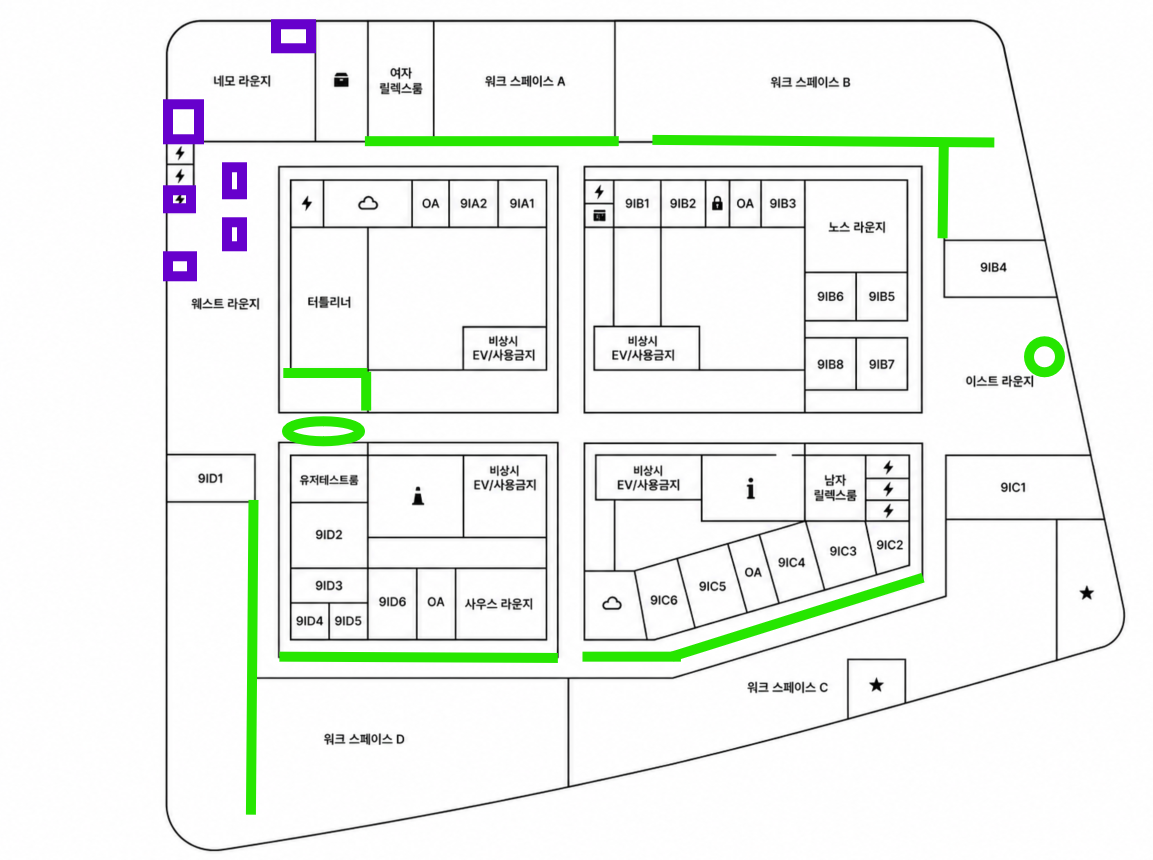
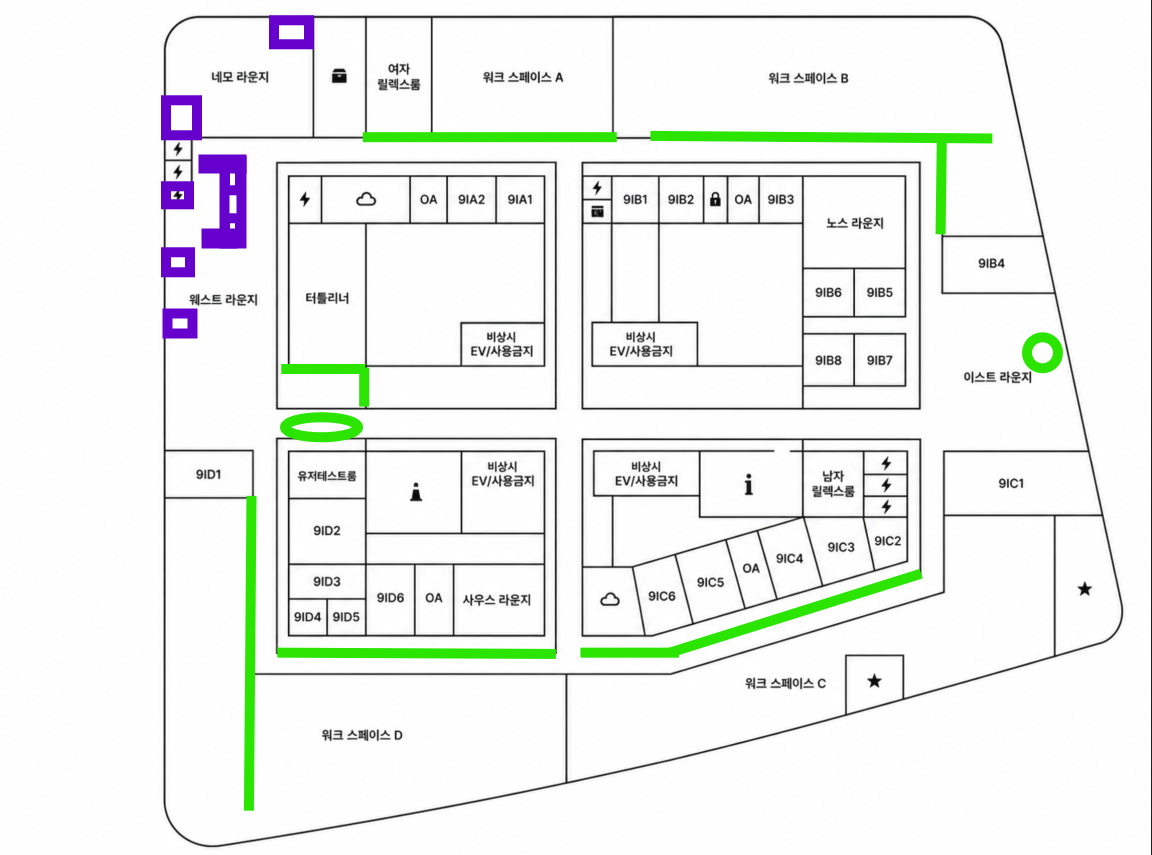
발행 보고서: 삭제 12개(9층 7곳)·9F 도면 교체·공수 복원

diff --git a/js/data.js b/js/data.js
@@ -206,17 +206,17 @@ window.WR_DOCS = [
         '<span class="wrdoc-eyebrow">Snack &amp; Garden · 조경 관리 검토</span>',
         '<h1 class="wrdoc-title">모빌리티 조경 관리구역 변경 검토</h1>',
         '<p class="wrdoc-lede">리모델링에 따른 플랜트박스 삭제가 실제 <b>현장 관리공수</b>에 미치는 영향을 정량 환산하고, 이를 근거로 9월 관리비 조정 기준을 판단하기 위한 검토 보고입니다.</p>',
-        '<div class="wrdoc-meta"><span><b>대상</b> 7·8·9·13층</span><span><b>확정 삭제</b> 대형조성 11개</span><span><b>작성일</b> 2026-08-25</span></div>',
+        '<div class="wrdoc-meta"><span><b>대상</b> 7·8·9·13층</span><span><b>확정 삭제</b> 대형조성 12개</span><span><b>작성일</b> 2026-08-25</span></div>',
       '</div>',
 
       '<section class="wrdoc-sec"><h2><span class="wrdoc-no">01</span>기존 관리 현황</h2>',
         '<div class="wrdoc-tw"><table class="wrdoc-table"><thead><tr><th>구분</th><th>기본 플랜트박스</th><th>대형조성</th><th>소형·중형 화분</th></tr></thead>',
         '<tbody><tr><td>7층</td><td>56</td><td>9</td><td>10</td></tr>',
         '<tr><td>8층</td><td>71</td><td>9</td><td>3</td></tr>',
-        '<tr class="has-del"><td>9층</td><td>67</td><td>9<span class="del-mark">−6 삭제</span></td><td>5</td></tr>',
+        '<tr class="has-del"><td>9층</td><td>67</td><td>9<span class="del-mark">−7 삭제</span></td><td>5</td></tr>',
         '<tr class="has-del"><td>13층</td><td>44</td><td>8<span class="del-mark">−5 삭제</span></td><td>1</td></tr>',
         '<tr class="wrdoc-total"><td>합계</td><td>238</td><td>35</td><td>19</td></tr></tbody></table></div>',
-        '<div class="del-callout"><div class="dc-num">−11<small>개 삭제</small></div><div class="dc-body">리모델링으로 <b>대형조성 플랜트박스 총 11개</b>가 삭제됩니다. 9층 <b>6곳</b>, 13층 <b>5곳(플랜트월 포함)</b> — 현재 확정된 삭제량입니다.</div></div>',
+        '<div class="del-callout"><div class="dc-num">−12<small>개 삭제</small></div><div class="dc-body">리모델링으로 <b>대형조성 플랜트박스 총 12개</b>가 삭제됩니다. 9층 <b>7곳</b>, 13층 <b>5곳(플랜트월 포함)</b> — 현재 확정된 삭제량입니다.</div></div>',
       '</section>',
 
       '<section class="wrdoc-sec"><h2><span class="wrdoc-no">02</span>관리공수 환산 기준</h2>',
@@ -236,20 +236,20 @@ window.WR_DOCS = [
 
       '<section class="wrdoc-sec"><h2><span class="wrdoc-no">03</span>삭제 시나리오별 영향</h2>',
         '<div class="wrdoc-scen">',
-          '<div class="wrdoc-scard"><p class="tag">시나리오 ①</p><p class="cond">대형조성 11개만 삭제</p><p class="big">16.4<small>%</small></p><p class="sub">공수 −88 · 층 환산 ≈ 0.66층</p></div>',
-          '<div class="wrdoc-scard hot"><p class="tag">시나리오 ②</p><p class="cond">대형 11개 + 기본 32개 삭제</p><p class="big">22.3<small>%</small></p><p class="sub">공수 −120 · 층 환산 ≈ 0.89층</p></div>',
+          '<div class="wrdoc-scard"><p class="tag">시나리오 ①</p><p class="cond">대형조성 12개만 삭제</p><p class="big">17.9<small>%</small></p><p class="sub">공수 −96 · 층 환산 ≈ 0.72층</p></div>',
+          '<div class="wrdoc-scard hot"><p class="tag">시나리오 ②</p><p class="cond">대형 12개 + 기본 32개 삭제</p><p class="big">23.8<small>%</small></p><p class="sub">공수 −128 · 층 환산 ≈ 0.95층</p></div>',
         '</div>',
         '<div class="wrdoc-tw"><table class="wrdoc-table"><thead><tr><th>삭제 조건</th><th>공수 감소</th><th>전체 감소율</th><th>층 환산</th></tr></thead>',
-        '<tbody><tr><td>① 대형조성 11개만 삭제</td><td class="pos">−88</td><td>16.4%</td><td>≈ 0.66층</td></tr>',
-        '<tr><td>② 대형 11개 + 기본 32개 삭제</td><td class="pos">−120</td><td>22.3%</td><td>≈ 0.89층</td></tr>',
+        '<tbody><tr><td>① 대형조성 12개만 삭제</td><td class="pos">−96</td><td>17.9%</td><td>≈ 0.72층</td></tr>',
+        '<tr><td>② 대형 12개 + 기본 32개 삭제</td><td class="pos">−128</td><td>23.8%</td><td>≈ 0.95층</td></tr>',
         '<tr><td>정확한 1개 층 기준</td><td>≈ 134</td><td>25%</td><td>1층</td></tr></tbody></table></div>',
-        '<div class="wrdoc-callout" style="border-left-color:#1b5e3f;"><span class="lbl" style="color:#1b5e3f;">검토 현황 (2026-08-25 기준)</span><p>현재 모빌리티 측에서는 <b>기본 플랜트박스 약 32개</b>의 <b>삭제 여부(삭제·유지)</b>를 검토 중입니다. <b>32개 삭제가 확정되면 시나리오 ②</b>(약 22.3% · 약 0.89개 층), <b>유지되면 시나리오 ①</b>(약 16.4% · 약 0.66개 층)이 적용됩니다.</p></div>',
+        '<div class="wrdoc-callout" style="border-left-color:#1b5e3f;"><span class="lbl" style="color:#1b5e3f;">검토 현황 (2026-08-25 기준)</span><p>현재 모빌리티 측에서는 <b>기본 플랜트박스 약 32개</b>의 <b>삭제 여부(삭제·유지)</b>를 검토 중입니다. <b>32개 삭제가 확정되면 시나리오 ②</b>(약 23.8% · 약 0.95개 층), <b>유지되면 시나리오 ①</b>(약 17.9% · 약 0.72개 층)이 적용됩니다.</p></div>',
       '</section>',
 
       '<section class="wrdoc-sec"><h2><span class="wrdoc-no">04</span>최종 판단</h2>',
         '<div class="wrdoc-tw"><table class="wrdoc-table"><thead><tr><th>구분</th><th>결과</th><th>해석</th></tr></thead>',
-        '<tbody><tr><td>① 기본 32개 유지</td><td>약 0.66층 감소</td><td>4→3개 층 조정하기엔 감소폭이 다소 큼</td></tr>',
-        '<tr><td>② 기본 32개 폐기</td><td>약 0.89층 / 22.3%</td><td>실질적 1개 층에 근접 → 3개 층 조정의 근거</td></tr></tbody></table></div>',
+        '<tbody><tr><td>① 기본 32개 유지</td><td>약 0.72층 감소</td><td>4→3개 층 조정하기엔 감소폭이 다소 큼</td></tr>',
+        '<tr><td>② 기본 32개 폐기</td><td>약 0.95층 / 23.8%</td><td>실질적 1개 층에 근접 → 3개 층 조정의 근거</td></tr></tbody></table></div>',
         '<div class="wrdoc-callout"><p><b>‘층이 사라지는 것’이 아니라 ‘식재 관리공수가 줄어드는 것’입니다.</b> 9층·13층은 여전히 관리구역으로 남으며, <b>이동·라운딩·잔여 식재 점검·병해충 확인</b> 등 고정 공수는 계속 발생합니다. 따라서 관리비 조정 기준은 ‘1개 층 삭제’가 아닌 <b>‘식재 관리공수 기준 약 1개 층 상당 감소’</b>로 보는 것이 정확합니다.</p></div>',
       '</section>',
 
@@ -276,9 +276,9 @@ window.WR_DOCS = [
       '<section class="wrdoc-sec"><h2><span class="wrdoc-no">07</span>최종 요약</h2>',
         '<div class="wrdoc-summary">',
           '<p class="rlabel">Executive Summary</p>',
-          '<p>모빌리티 리모델링에 따라 현재 <b>9층·13층 대형조성 플랜트박스 총 11개(플랜트월 포함)</b>가 삭제될 예정입니다.</p>',
-          '<p>현장 관리공수 기준(대형 1개 ≈ 기본 8개)으로 환산하면, 확정 삭제분은 기존 관리공수의 <span class="hl">약 16.4%, 약 0.66개 층</span> 수준입니다.</p>',
-          '<p>추가 검토 중인 <b>기본 플랜트박스 약 32개</b>까지 삭제될 경우 총 감소율은 <span class="hl">약 22.3%, 약 0.89개 층</span>에 해당합니다.</p>',
+          '<p>모빌리티 리모델링에 따라 현재 <b>9층·13층 대형조성 플랜트박스 총 12개(플랜트월 포함)</b>가 삭제될 예정입니다.</p>',
+          '<p>현장 관리공수 기준(대형 1개 ≈ 기본 8개)으로 환산하면, 확정 삭제분은 기존 관리공수의 <span class="hl">약 17.9%, 약 0.72개 층</span> 수준입니다.</p>',
+          '<p>추가 검토 중인 <b>기본 플랜트박스 약 32개</b>까지 삭제될 경우 총 감소율은 <span class="hl">약 23.8%, 약 0.95개 층</span>에 해당합니다.</p>',
           '<p>따라서 기본 32개까지 최종 폐기되는 경우 <b>관리공수 기준 약 1개 층 상당 감소</b>로 보는 것이 적절하며, <b>폐기 확정 후 관리비 조정 기준을 최종 협의</b>하는 것이 좋겠습니다.</p>',
         '</div>',
       '</section>',

diff --git a/index.html b/index.html
@@ -122,7 +122,7 @@
   </div>
 
   <script src="./js/config.js?v=48" defer></script>
-  <script src="./js/data.js?v=59" defer></script>
+  <script src="./js/data.js?v=60" defer></script>
   <script src="./js/summaries.js?v=17" defer></script>
   <script src="./js/kpi.js?v=1" defer></script>
   <script src="./js/app.js?v=84" defer></script>
